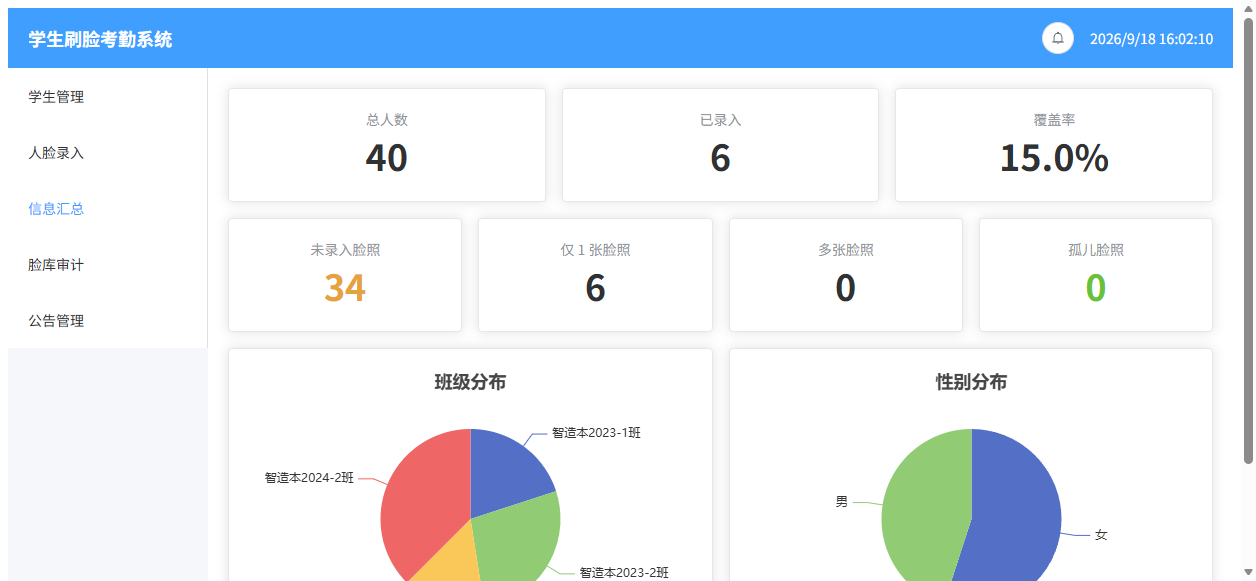
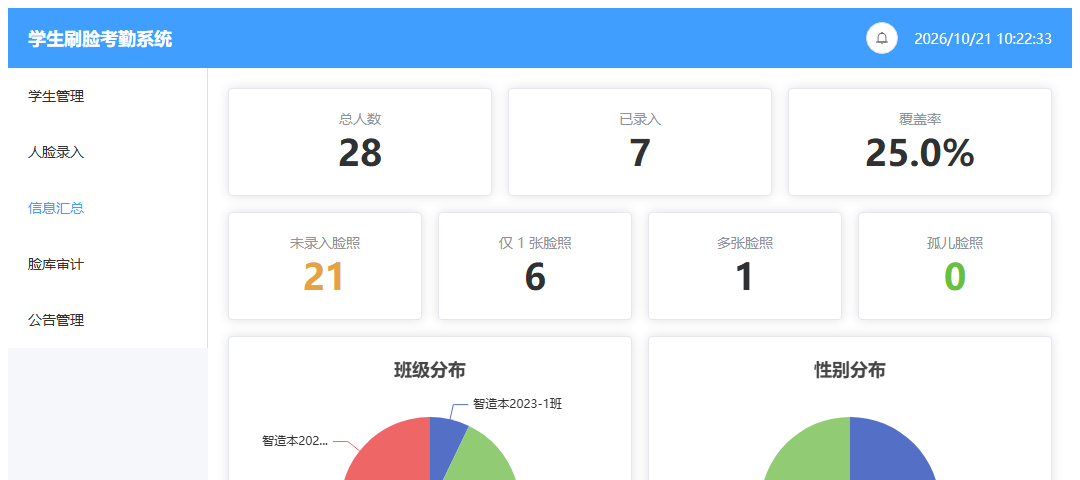
fix: 求职级清理——数据脱敏、根目录归位、文档数字校准、PII 守卫
## 安全
- 演示库手机号统一改为 1380000xxxx 明显假号段（原 13+随机数，可能撞真人号段）
- 5 张界面图重新生成，手机号脱敏（截图像素泄露，文本扫描查不出）
- 新增 backend/scripts/pii_guard.py：截图前检查库内手机号，非假号直接拦截退出
  已做正反双向测试（注入真实号 → 退出码 1）
- capture_ui.py 改为先跑 pii_guard 再截图，堵死复发路径

## 结构
- 根目录杂物归位：gen_*.py → tools/，quiz.html → docs/，运维脚本 → scripts/
- 根目录只留 README / RESUME / LICENSE / 每日清单

## 文档数字校准（全部实测复核）
- README「48 项断言」→ 50（实测 50/50 通过）
- 目录树、启动命令、脚本路径同步更新
- RESUME 补注：核心业务代码约 2900 行，含测试与工具脚本约 7000 行
- 审计对照表数字经实测复核：正常录入 7簇/0重复/0脏数据；一人多号 14 重复对

## 修复
- capture_ui.py 原依赖 agent-browser（已不存在，node 版本目录已变更），
  重写为 playwright-core 驱动本机 Edge，实测端到端跑通

diff --git a/backend/scripts/capture_ui.py b/backend/scripts/capture_ui.py
@@ -1,97 +1,132 @@
 # -*- coding: utf-8 -*-
-"""用 agent-browser 逐页截图，并按页面语义命名。
+"""逐页截图，生成 README 用的界面图。
 
-用法：python scripts/capture_ui.py
-依赖：已安装 agent-browser（可复用本机 Edge，免下载 Chromium）
+用法（在 backend 目录下）：
+    .venv/Scripts/python.exe scripts/capture_ui.py
+
+流程：
+    1. 先跑 pii_guard.py —— 演示库里若残留「看起来像真的」手机号，直接中止。
+       背景：本项目曾把带手机号的截图提交到公开仓库，文本扫描全绿查不出来
+       （泄露载体是 PNG 像素，不是文本），所以把检查前移到数据层。
+    2. 用 playwright-core 驱动本机 Edge 逐页截图。
+
+依赖：
+    pip install playwright-core
+    本机需已安装 Edge（默认 C:\\Program Files (x86)\\Microsoft\\Edge\\Application\\msedge.exe，
+    可用环境变量 EDGE_PATH 覆盖）。
 """
+from __future__ import annotations
+
+import json
 import os
-import re
 import subprocess
 import sys
-import time
+from pathlib import Path
 
-NODE_DIR = r"C:\Users\Administrator\.workbuddy\binaries\node\versions\22.22.2-3"
-# 直接调用原生 exe：Windows 下用 subprocess 调 .cmd 会失败
-AB = os.path.join(NODE_DIR, "node_modules", "agent-browser", "bin",
-                  "agent-browser-win32-x64.exe")
-EDGE = r"C:\Program Files (x86)\Microsoft\Edge\Application\msedge.exe"
-OUT = r"E:\workbuddy-projects\face-attendance\docs\screenshots"
-BASE = "http://localhost:5173"
+BACKEND = Path(__file__).resolve().parent.parent
+OUT = BACKEND.parent / "docs" / "screenshots"
+BASE = os.environ.get("CAPTURE_BASE", "http://127.0.0.1:5173")
 
-# (路由, 输出文件名, 截图前需要点击的文本)
+EDGE = os.environ.get(
+    "EDGE_PATH",
+    r"C:\Program Files (x86)\Microsoft\Edge\Application\msedge.exe",
+)
+
+# playwright-core 装在 WorkBuddy 的 node workspace 里
+NODE_WORKSPACE = Path(
+    r"C:\Users\Administrator\.workbuddy\binaries\node\workspace"
+)
+
+# (路由, 输出文件名, 截图前需要点击的文本, 页面等待毫秒, 点击后额外等待毫秒)
 PAGES = [
-    ("/students", "01_学生管理.png", None),
-    ("/stats", "02_信息汇总.png", None),
-    ("/audit", "03_脸库审计.png", "运行审计"),
-    ("/faces", "04_人脸录入.png", None),
-    ("/notices", "05_公告管理.png", None),
+    ("/students", "01-students.png", None, 2500, 0),
+    ("/stats", "02-stats.png", None, 3500, 0),
+    ("/audit", "03-audit.png", "运行审计", 1500, 7000),
+    ("/faces", "04-enroll.png", None, 2500, 0),
+    ("/notices", "05-notice.png", None, 2500, 0),
 ]
 
+JS_SNIPPET = r"""
+const { chromium } = require('playwright-core');
+const path = require('path');
+const OUT = process.argv[2];
+const BASE = process.argv[3];
+const EDGE = process.argv[4];
+const PAGES = JSON.parse(process.argv[5]);
+(async () => {
+  const browser = await chromium.launch({
+    executablePath: EDGE, args: ['--no-sandbox', '--disable-gpu'],
+  });
+  const page = await (await browser.newContext({
+    viewport: { width: 1080, height: 480 },
+  })).newPage();
+  for (const p of PAGES) {
+    try {
+      await page.goto(BASE + p.route, { waitUntil: 'networkidle', timeout: 30000 });
+      await page.waitForTimeout(p.wait);
+      if (p.click) {
+        try {
+          await page.getByText(p.click, { exact: false }).first().click({ timeout: 8000 });
+          await page.waitForTimeout(p.extra || 6000);
+        } catch (e) {
+          console.log('  click miss: ' + p.click);
+        }
+      }
+      await page.screenshot({ path: path.join(OUT, p.out) });
+      console.log('OK ' + p.out);
+    } catch (e) {
+      console.log('FAIL ' + p.out + ' ' + String(e).slice(0, 160));
+    }
+  }
+  await browser.close();
+})();
+"""
 
-def env():
-    e = dict(os.environ)
-    e["PATH"] = NODE_DIR + os.pathsep + e.get("PATH", "")
-    e["AGENT_BROWSER_EXECUTABLE_PATH"] = EDGE
-    e["AGENT_BROWSER_SCREENSHOT_DIR"] = OUT
-    return e
+
+def run_pii_guard() -> bool:
+    """截图前必须通过 PII 守卫，不通过直接中止。"""
+    print("[capture] 检查演示数据是否含疑似真实手机号 ...")
+    r = subprocess.run(
+        [sys.executable, str(BACKEND / "scripts" / "pii_guard.py")],
+        capture_output=True, text=True, encoding="utf-8", errors="ignore",
+        cwd=str(BACKEND),
+    )
+    print((r.stdout or "").strip())
+    if r.returncode != 0:
+        print("\n[capture] ✗ PII 守卫未通过，已中止截图。")
+        print("[capture]   先把库里的手机号改成 1380000xxxx 段假号，再重跑。")
+        return False
+    return True
 
 
-def run(*args, timeout=120):
-    r = subprocess.run([AB, *args], capture_output=True, text=True,
-                       errors="ignore", env=env(), timeout=timeout, cwd=OUT)
-    return (r.stdout or "") + (r.stderr or "")
+def main() -> int:
+    if not run_pii_guard():
+        return 1
 
+    OUT.mkdir(parents=True, exist_ok=True)
+    js_path = BACKEND / "scripts" / ".capture_ui.js"
+    js_path.write_text(JS_SNIPPET, encoding="utf-8")
 
-def main():
-    os.makedirs(OUT, exist_ok=True)
-    run("close")          # 清掉可能残留的守护进程，避免卡住
-    time.sleep(1)
-    # 清理旧图
-    for f in os.listdir(OUT):
-        if f.lower().endswith(".png"):
-            try:
-                os.remove(os.path.join(OUT, f))
-            except OSError:
-                pass
-
-    ok, fail = [], []
-    for route, outname, click_text in PAGES:
-        url = BASE + route
-        log = run("open", url)
-        if "http" not in log:
-            fail.append((outname, "open 失败: " + log.strip()[:120]))
-            continue
-        time.sleep(2.5)  # 等接口返回 + 图表渲染
-
-        if click_text:
-            # ref 会失效，改用文本选择器
-            clog = run("click", f"text={click_text}")
-            time.sleep(3)  # 等审计接口返回
-            if "✗" in clog:
-                fail.append((outname, "点击失败: " + clog.strip()[:120]))
-
-        slog = run("screenshot")
-        m = re.search(r"saved to (.+\.png)", slog)
-        if not m:
-            fail.append((outname, "截图失败: " + slog.strip()[:120]))
-            continue
-        src = m.group(1).strip()
-        dst = os.path.join(OUT, outname)
-        if os.path.exists(src) and os.path.abspath(src) != os.path.abspath(dst):
-            os.replace(src, dst)
-        size = os.path.getsize(dst) if os.path.exists(dst) else 0
-        ok.append((outname, route, size))
-
-    run("close")
-
-    print("=" * 60)
-    for name, route, size in ok:
-        flag = "OK  " if size > 20000 else "SMALL"
-        print(f"  [{flag}] {name:<18} {route:<12} {size/1024:.0f} KB")
-    for name, why in fail:
-        print(f"  [FAIL] {name:<18} {why}")
-    print("=" * 60)
-    return 1 if fail else 0
+    env = dict(os.environ)
+    env["NODE_PATH"] = str(NODE_WORKSPACE / "node_modules")
+    node_exe = os.environ.get("NODE_EXE", "node")
+    payload = [
+        {"route": r, "out": o, "click": c, "wait": w, "extra": x}
+        for (r, o, c, w, x) in PAGES
+    ]
+    cmd = [
+        node_exe, str(js_path),
+        str(OUT), BASE, EDGE, json.dumps(payload),
+    ]
+    print("[capture] 开始截图 ...")
+    try:
+        r = subprocess.run(cmd, env=env, cwd=str(NODE_WORKSPACE), timeout=300)
+    finally:
+        try:
+            js_path.unlink()
+        except OSError:
+            pass
+    return r.returncode
 
 
 if __name__ == "__main__":

diff --git a/backend/scripts/pii_guard.py b/backend/scripts/pii_guard.py
@@ -1,0 +1,100 @@
+# -*- coding: utf-8 -*-
+"""演示库 PII 守卫：截图 / 提交前检查库内是否残留「看起来像真的」的个人信息。
+
+背景
+----
+本项目曾把带真实手机号的截图提交到**公开仓库**（docs/screenshots/01-students.png）。
+.text 扫描全绿查不出来——因为泄露载体是 PNG 的像素，不是文本。
+本脚本把检查前移到「数据层」：只要库里还是安全的假号，截出来的图就是安全的。
+
+检查项
+------
+1. 手机号：允许 138000000xx 段的明显假号；其它号段一律视为风险。
+2. 姓名字段：不做拦截（演示数据用生成姓名），但会统计供人工复核。
+3. 人脸照片：确认 uploads/ 下的图片没有可识别的真实人脸文件名前缀。
+
+用法（在 backend 目录下）：
+    .venv/Scripts/python.exe scripts/pii_guard.py
+    .venv/Scripts/python.exe scripts/pii_guard.py --allow-real   # 明确豁免（需写明理由）
+
+退出码：0 = 通过；1 = 发现风险（此时禁止截图与提交）。
+"""
+from __future__ import annotations
+
+import argparse
+import re
+import sys
+from pathlib import Path
+
+BACKEND = Path(__file__).resolve().parent.parent
+sys.path.insert(0, str(BACKEND))
+
+# 允许的假号段：138000000xx
+SAFE_PHONE = re.compile(r"^1380000\d{4}$")
+# 中国大陆手机号形态
+PHONE_LIKE = re.compile(r"^1[3-9]\d{9}$")
+
+
+def main() -> int:
+    ap = argparse.ArgumentParser()
+    ap.add_argument("--allow-real", action="store_true",
+                    help="显式豁免真实号段（需在 PR 描述里写明理由）")
+    args = ap.parse_args()
+
+    from core.db import SessionLocal
+    from sqlalchemy import text
+
+    db = SessionLocal()
+    bad, total, safe = [], 0, 0
+    try:
+        rows = db.execute(text("select student_no, name, phone from students")).all()
+    except Exception as exc:  # noqa: BLE001
+        print(f"[pii-guard] 读取 students 失败：{exc}")
+        return 1
+
+    for student_no, name, phone in rows:
+        total += 1
+        if phone is None or str(phone).strip() == "":
+            continue
+        p = str(phone).strip()
+        if SAFE_PHONE.match(p):
+            safe += 1
+        elif PHONE_LIKE.match(p):
+            bad.append((student_no, name, p))
+        else:
+            print(f"[pii-guard] 提示：{student_no} 的联系方式格式异常：{p!r}")
+
+    print(f"[pii-guard] 学生总数 {total}，假号 {safe}，风险号 {len(bad)}")
+
+    # 人脸图片文件名：真实人像常见中文长文件名，AI/演示素材是 ASCII 短名
+    img_dir = BACKEND / "uploads" / "faces"
+    suspicious_imgs = []
+    if img_dir.exists():
+        for p in img_dir.rglob("*"):
+            if p.is_file() and p.suffix.lower() in {".jpg", ".jpeg", ".png", ".bmp", ".webp"}:
+                if not p.name.isascii():
+                    suspicious_imgs.append(str(p.relative_to(BACKEND)))
+
+    ok = True
+    if bad and not args.allow_real:
+        print("\n[pii-guard] ✗ 发现疑似真实手机号，禁止截图与提交：")
+        for student_no, name, p in bad:
+            print(f"    {student_no}  {name}  {p}")
+        print("    修复：把手机号统一改成 1380000xxxx 段假号，"
+              "或执行 scripts/seed_demo.py --drop --split-identities 重建。")
+        ok = False
+    elif bad:
+        print(f"[pii-guard] ⚠ --allow-real 已豁免 {len(bad)} 个真实号段，请写明理由。")
+
+    if suspicious_imgs:
+        print(f"\n[pii-guard] ⚠ 发现 {len(suspicious_imgs)} 个非 ASCII 文件名的图片，请人工确认：")
+        for s in suspicious_imgs[:10]:
+            print(f"    {s}")
+
+    if ok:
+        print("[pii-guard] ✓ 通过，可以截图与提交。")
+    return 0 if ok else 1
+
+
+if __name__ == "__main__":
+    sys.exit(main())

diff --git a/backend/scripts/seed_demo.py b/backend/scripts/seed_demo.py
@@ -54,7 +54,9 @@ def make_students(db, count: int) -> list[int]:
             class_name=random.choice(classes),
             major=random.choice(majors),
             enroll_year=random.choice([2023, 2024]),
-            phone=f"13{random.randint(100000000, 999999999)}",
+            # 演示数据一律使用明显可辨的假号（138000000xx 段），
+            # 避免随机生成的号段撞上真实用户手机号。
+            phone=f"1380000{i:04d}",
         ))
         ids.append(student.id)
         exist.add(no)

diff --git a/README.md b/README.md
@@ -78,9 +78,28 @@ FastAPI + Vue 3 全栈实现，覆盖需求文档第一阶段的四大模块：
 
 ```
 face-attendance/
-├── start-backend.cmd          一键启动后端 (8000)
-├── start-frontend.cmd         一键启动前端 (5173)
-├── quiz.html                  知识点考核（14 题交互式）
+├── README.md                  本文件
+├── RESUME.md                  简历素材（可直接抄，含面试口径说明）
+├── LICENSE                    MIT
+├── 每日清单.md                 每日自动取数记录（脚本维护）
+│
+├── scripts/                   运维脚本（与业务代码分离）
+│   ├── start-backend.cmd      一键启动后端 (8000)
+│   ├── start-frontend.cmd     一键启动前端 (5173)
+│   ├── push-to-gitee.bat      交互式推送
+│   ├── push-to-gitee-safe.bat 只推送、不改写历史
+│   ├── push-to-gitee-auto.sh  无人值守推送（读 .gitee-token）
+│   └── check-gitee-contrib.sh Gitee 贡献归属巡检
+│
+├── tools/                     一次性脚手架生成器（保留以复现工程结构）
+│   ├── gen_backend.py         生成 FastAPI 后端目录骨架
+│   └── gen_frontend.py        生成 Vue 前端目录骨架
+│
+├── docs/
+│   ├── quiz.html              知识点考核（14 题交互式）
+│   ├── blog/                  技术笔记
+│   ├── audit-recall-report.md 脸库审计召回率评测报告
+│   └── screenshots/           README 界面图
 │
 ├── backend/
 │   ├── main.py                入口：路由装配 + lifespan + 统一异常处理
@@ -115,7 +134,8 @@ face-attendance/
 │       ├── e2e_test.py         端到端联调（50 项断言）
 │       ├── audit_recall_test.py 脸库审计召回率评测（独立评测库，不动演示数据）
 │       ├── daily_run_stats.py  每日真实运行取数 + SQLite/Milvus 条数一致性校验
-│       └── capture_ui.py       批量截图 README 用界面图
+│       ├── capture_ui.py       批量截图 README 用界面图
+│       └── pii_guard.py        ★ 演示数据 PII 守卫（截图前必跑，防手机号进截图）
 │
 └── frontend/
     ├── vite.config.js         /api、/uploads、/ws 代理到 8000
@@ -146,8 +166,8 @@ python -m venv .venv
 ### 日常启动
 
 ```bat
-start-backend.cmd
-start-frontend.cmd
+scripts\start-backend.cmd
+scripts\start-frontend.cmd
 ```
 
 然后浏览器打开 **http://localhost:5173** ；接口文档在 **http://localhost:8000/docs** 。
@@ -157,7 +177,7 @@ start-frontend.cmd
 ```bat
 REM 后端默认只听 127.0.0.1；设置 APP_HOST 可放开监听
 set APP_HOST=0.0.0.0
-start-backend.cmd
+scripts\start-backend.cmd
 ```
 
 > ⚠ 放开监听前请注意：第一阶段**没有做登录鉴权**，任何能访问到该端口的人都能读写全部接口。
@@ -338,7 +358,7 @@ REM 一人多号：故意把同一身份拆到不同学号（制造脏数据）
 ```bat
 cd backend
 
-REM 端到端联调（需后端已启动）：48 项断言，覆盖全部阶段一接口
+REM 端到端联调（需后端已启动）：50 项断言，覆盖全部阶段一接口
 .venv\Scripts\python.exe scripts\e2e_test.py
 
 REM 生成演示数据（需先停后端）：28 名学生 + 真实人脸录入（按身份分组）
